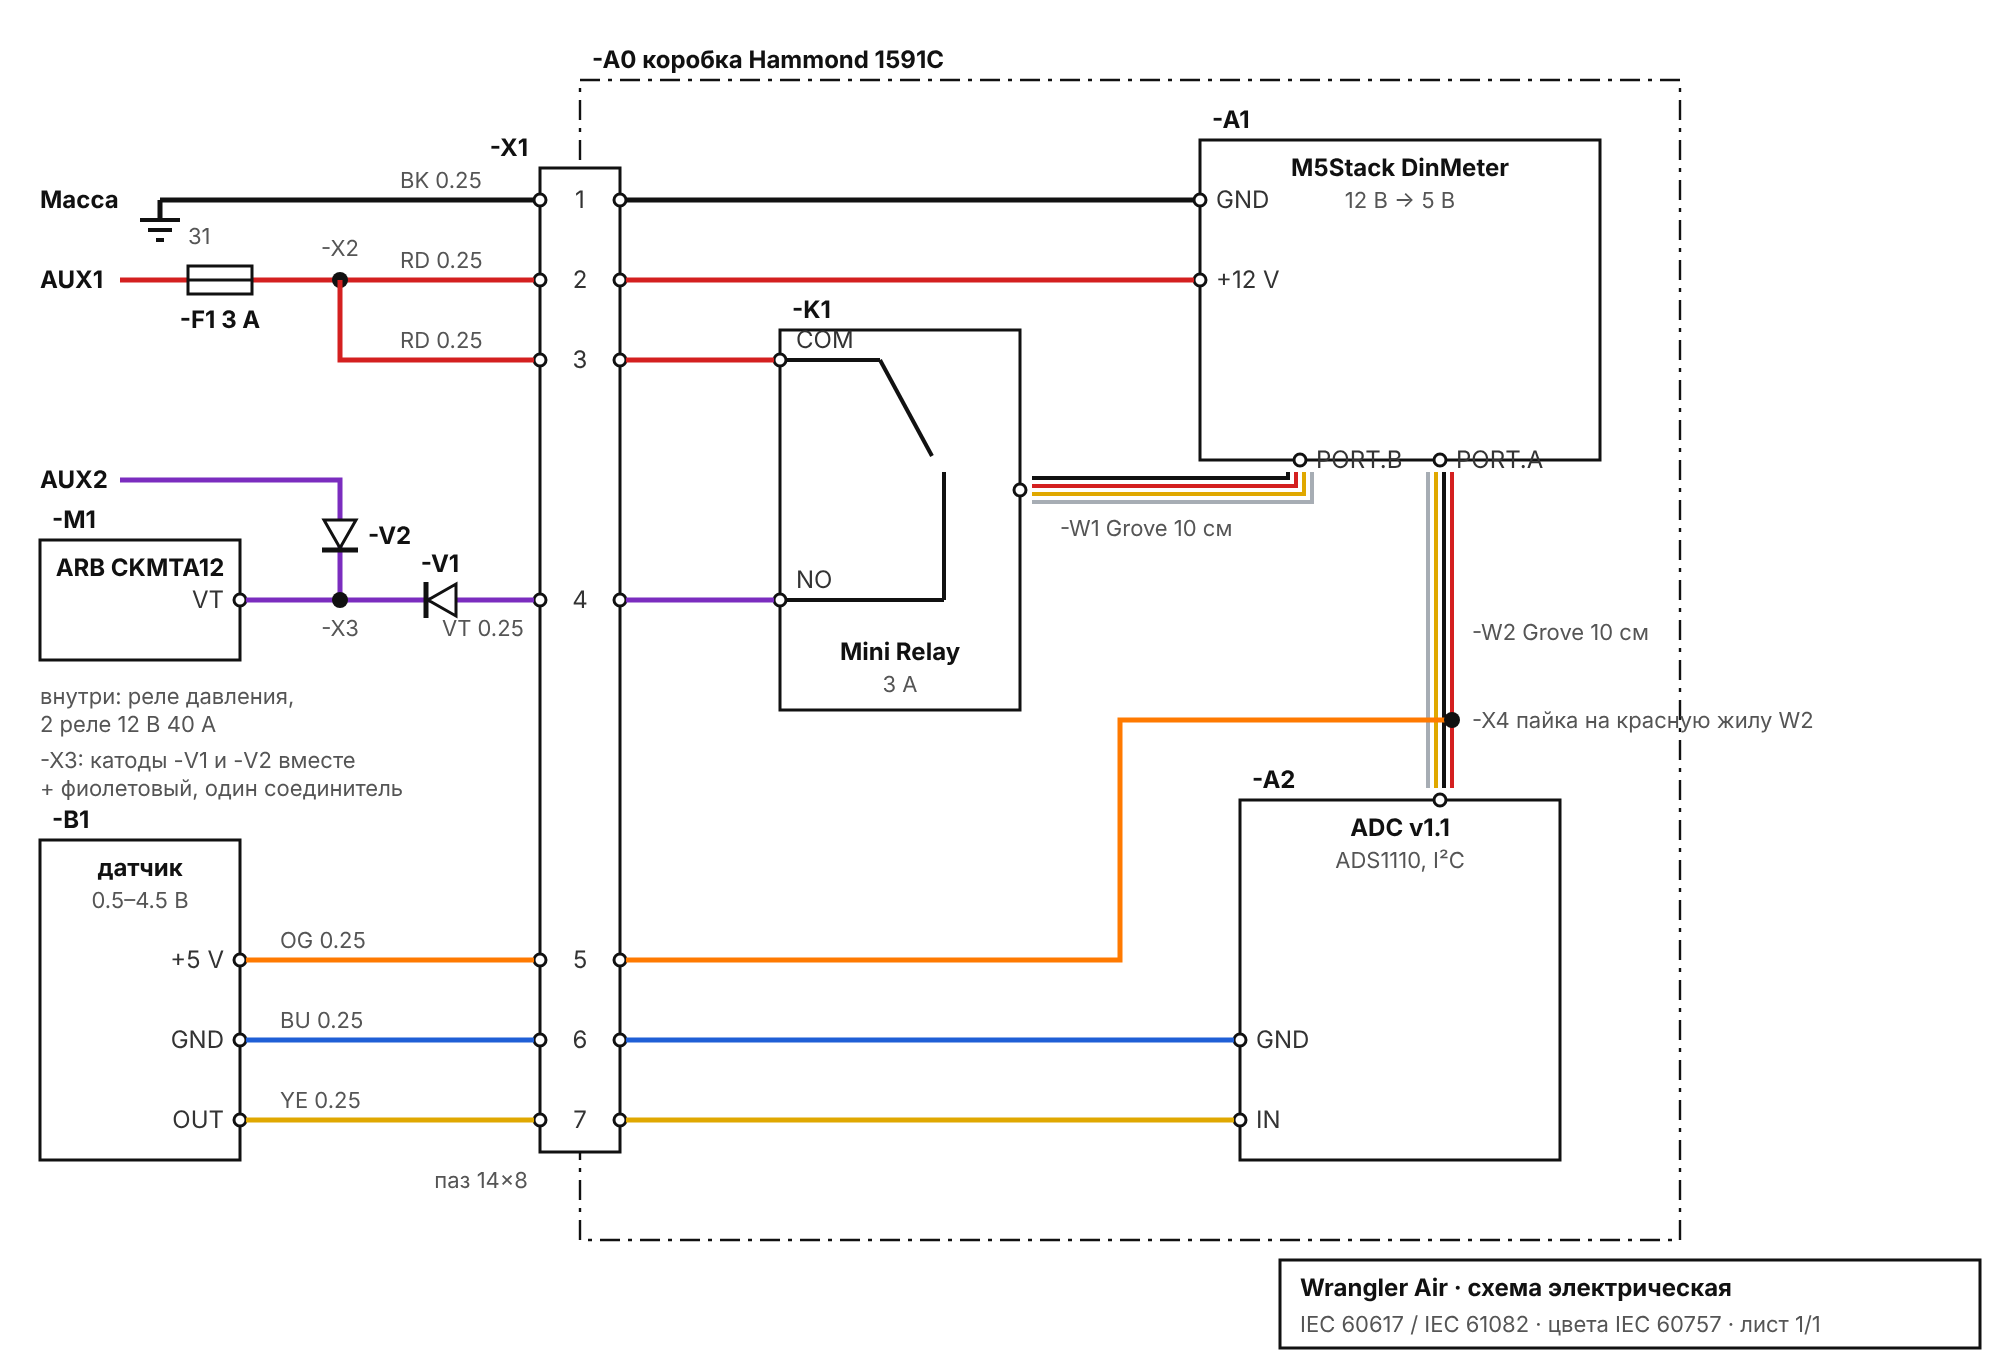
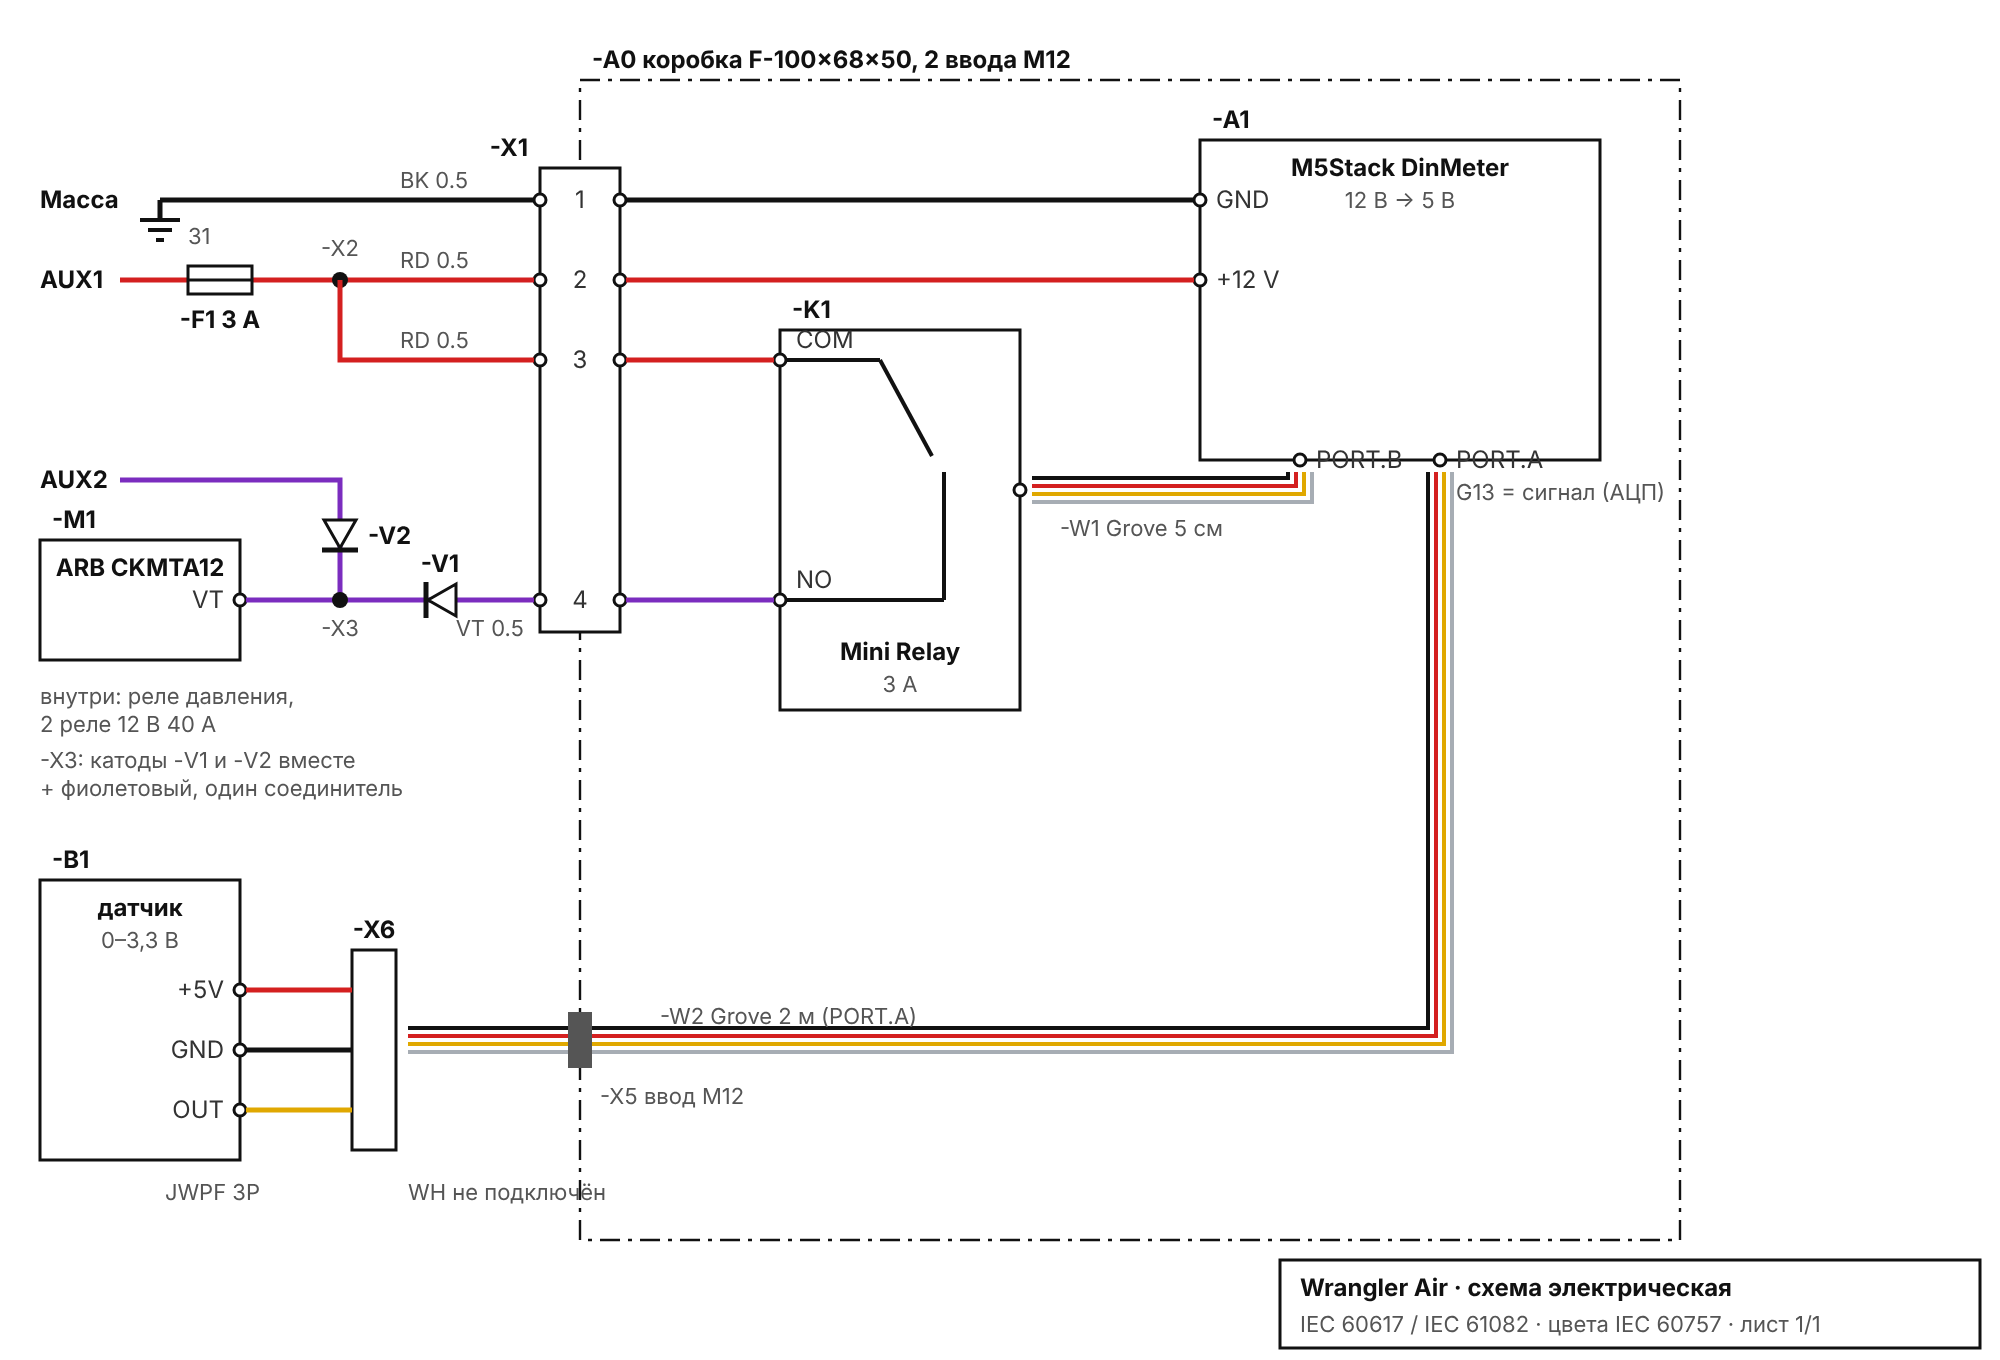
Schematic: sensor 0-3.3 V straight on a 2 m Grove cable from PORT.A (G13), no ADC, no divider; BOM and decisions
Claude-Session: https://claude.ai/code/session_018z5LvCZ9NFya6WZW91qW8w

diff --git a/hardware/enclosure/hammond_1591c/power_svg.py b/hardware/enclosure/hammond_1591c/power_svg.py
@@ -295,46 +295,53 @@ def power_svg_iec():
             o.append(f'<line x1="{x-6}" y1="{y+6}" x2="{x+6}" y2="{y-6}" stroke="#111" stroke-width="1.5"/>')
             lab(x, y - 9, str(n), "c")
 
-    # enclosure and terminal strip -X1 (the 14 x 8 mm slot: every car wire passes here)
+    # enclosure; -X1 = the car wires at the two M12 cable glands, -X5 = the sensor Grove cable through the right gland
     o.append('<rect x="290" y="40" width="550" height="580" class="box"/>')
-    lab(296, 34, "-A0  коробка Hammond 1591C", "d", "start")
-    T = {1: 100, 2: 140, 3: 180, 4: 300, 5: 480, 6: 520, 7: 560}
-    o.append(f'<rect x="270" y="{T[1]-16}" width="40" height="{T[7]-T[1]+32}" class="b"/>')
+    lab(296, 34, "-A0  коробка F-100×68×50, 2 ввода M12", "d", "start")
+    T = {1: 100, 2: 140, 3: 180, 4: 300}
+    o.append(f'<rect x="270" y="{T[1]-16}" width="40" height="{T[4]-T[1]+32}" class="b"/>')
     lab(264, T[1] - 22, "-X1", "d", "end")
-    lab(264, T[7] + 34, "паз 14×8", "c", "end")
     for k, y in T.items():
         o.append(f'<circle cx="270" cy="{y}" r="3" class="t"/><circle cx="310" cy="{y}" r="3" class="t"/>')
         lab(290, y + 4, str(k), "n")
 
-    # outside: supply, ground, compressor, sensor
-    # -X1:1 ground, -X1:2 +12 V to the DinMeter, -X1:3 +12 V to the relay COM
+    # outside: supply, ground, compressor
     lab(20, T[1] + 4, "Масса", "d", "start"); L((80, T[1]), (267, T[1]), c="BK")
     L((80, T[1]), (80, T[1] + 10), c="BK"); ground(80, T[1] + 10); lab(94, T[1] + 22, "31", "c", "start")
-    lab(200, T[1] - 6, "BK 0.25", "c", "start")
+    lab(200, T[1] - 6, "BK 0.5", "c", "start")
     lab(20, T[2] + 4, "AUX1", "d", "start"); L((60, T[2]), (267, T[2]), c="RD")
     fuse_h(110, T[2], "", ""); lab(110, T[2] + 24, "-F1 3 A", "d")
     dot(170, T[2]); L((170, T[2]), (170, T[3]), (267, T[3]), c="RD")
     lab(170, T[2] - 12, "-X2", "c")
-    lab(200, T[2] - 6, "RD 0.25", "c", "start"); lab(200, T[3] - 6, "RD 0.25", "c", "start")
+    lab(200, T[2] - 6, "RD 0.5", "c", "start"); lab(200, T[3] - 6, "RD 0.5", "c", "start")
     lab(20, 244, "AUX2", "d", "start"); L((60, 240), (170, 240), (170, T[4]), c="VT")
     diode_v(170, 268, "-V2")
     comp(20, 270, 100, 60, "-M1", "ARB CKMTA12", "")
     pinl(120, T[4], "VT", "r")
     L((170, T[4]), (267, T[4]), c="VT"); L((123, T[4]), (170, T[4]), c="VT"); dot(170, T[4])
     diode_h(220, T[4], "-V1")
-    lab(170, T[4] + 18, "-X3", "c"); lab(20, 384, "-X3: катоды -V1 и -V2 вместе", "c", "start"); lab(20, 398, "+ фиолетовый, один соединитель", "c", "start"); lab(262, T[4] + 18, "VT 0.25", "c", "end")
+    lab(170, T[4] + 18, "-X3", "c"); lab(20, 384, "-X3: катоды -V1 и -V2 вместе", "c", "start"); lab(20, 398, "+ фиолетовый, один соединитель", "c", "start"); lab(262, T[4] + 18, "VT 0.5", "c", "end")
     lab(20, 352, "внутри: реле давления,", "c", "start"); lab(20, 366, "2 реле 12 В 40 А", "c", "start")
 
-    comp(20, 420, 100, 160, "-B1", "датчик", "0.5–4.5 В")
-    for k, t, c in ((5, "+5 V", "OG"), (6, "GND", "BU"), (7, "OUT", "YE")):
-        pinl(120, T[k], t, "r")
-        L((123, T[k]), (267, T[k]), c=c)
-    lab(140, T[5] - 6, "OG 0.25", "c", "start"); lab(140, T[6] - 6, "BU 0.25", "c", "start"); lab(140, T[7] - 6, "YE 0.25", "c", "start")
+    # sensor: straight on a 2 m Grove cable from PORT.A, connector -X6 at the sensor, no ADC, no divider
+    S = {"+5V": 495, "GND": 525, "OUT": 555}
+    comp(20, 440, 100, 140, "-B1", "датчик", "0–3,3 В")
+    for t, y in S.items():
+        pinl(120, y, t, "r")
+    o.append('<rect x="176" y="475" width="22" height="100" class="b"/>'); lab(187, 469, "-X6", "d")
+    lab(187, 590, "", "c")
+    lab(130, 600, "JWPF 3P", "c", "end")
+    L((123, S["+5V"]), (176, S["+5V"]), c="RD"); L((123, S["GND"]), (176, S["GND"]), c="BK"); L((123, S["OUT"]), (176, S["OUT"]), c="YE")
+    grove4([(720, 236), (720, 520), (204, 520)])
+    o.append('<rect x="284" y="506" width="12" height="28" fill="#555"/>'); lab(300, 552, "-X5 ввод M12", "c", "start")
+    lab(330, 512, "-W2 Grove 2 м (PORT.A)", "c", "start")
+    lab(204, 600, "WH не подключён", "c", "start")
 
     # inside
     comp(600, 70, 200, 160, "-A1", "M5Stack DinMeter", "12 В → 5 В")
     pinl(600, T[1], "GND"); pinl(600, T[2], "+12 V")
     pinl(650, 230, "PORT.B"); pinl(720, 230, "PORT.A")
+    lab(728, 250, "G13 = сигнал (АЦП)", "c", "start")
     L((313, T[1]), (597, T[1]), c="BK"); L((313, T[2]), (597, T[2]), c="RD")
     o.append('<rect x="390" y="165" width="120" height="190" class="b"/>')
     lab(396, 159, "-K1", "d", "start"); lab(450, 330, "Mini Relay", "d"); lab(450, 346, "3 A", "c")
@@ -345,14 +352,7 @@ def power_svg_iec():
     lab(398, T[3] - 6, "COM", "n", "start"); lab(398, T[4] - 6, "NO", "n", "start")
     L((313, T[3]), (387, T[3]), c="RD"); L((313, T[4]), (387, T[4]), c="VT")
     o.append('<circle cx="510" cy="245" r="3" class="t"/>')
-    grove4([(650, 236), (650, 245), (516, 245)]); lab(530, 268, "-W1 Grove 10 см", "c", "start")
-    comp(620, 400, 160, 180, "-A2", "ADC v1.1", "ADS1110, I²C")
-    o.append('<circle cx="720" cy="400" r="3" class="t"/>')
-    grove4([(720, 236), (720, 394)], ("WH", "YE", "BK", "RD")); lab(736, 320, "-W2 Grove 10 см", "c", "start")
-    pinl(620, T[6], "GND"); pinl(620, T[7], "IN")
-    L((313, T[6]), (617, T[6]), c="BU"); L((313, T[7]), (617, T[7]), c="YE")
-    L((313, T[5]), (560, T[5]), (560, 360), (726, 360), c="OG"); dot(726, 360)
-    lab(736, 364, "-X4 пайка на красную жилу W2", "c", "start")
+    grove4([(650, 236), (650, 245), (516, 245)]); lab(530, 268, "-W1 Grove 5 см", "c", "start")
 
     # title block
     o.append('<rect x="640" y="630" width="350" height="44" class="b"/>')

diff --git a/docs/decisions.md b/docs/decisions.md
@@ -17,10 +17,12 @@
   OG +5 V датчика, BU масса датчика, YE сигнал.
 - **Жгуты:** два жгута в термоусадке 2:1 6,4 мм без клея (вход 12 V + масса; датчик + управление ARB).
   На выходе из паза и на концах кольца 3:1 с клеем.
-- **Grove:** 5 см к реле, 10 см к ADC.
-- **Датчик:** 5 V, 0,5-4,5 V, 0-1,2 MPa, резьба G1/8 (BSPP) на бондовой шайбе, в свободный порт 1/8 BSPP манифолда ARB 171503.
-  Не 100 psi: при закрытой линии и обходе через AUX2 ARB качает до 10,3 bar. Разъём 3-pin JWPF у датчика.
-  Порт 1/4 NPT манифолда остаётся под тройник на колёса.
+- **Grove:** 5 см к реле (PORT.B), 2 м к датчику (PORT.A). ADC v1.1 и Grove 10 см в запасе.
+- **Датчик (основной вариант):** 5 V питание, выход **0-3,3 V**, 0-1,2 MPa, G1/8 на бондовой шайбе в порт 1/8 BSPP манифолда ARB 171503.
+  Подключение без ADC и без делителя: кабель Grove 2 м прямо из PORT.A, чёрный GND, красный +5 V, жёлтый G13 (вход АЦП), белый не подключён.
+  У датчика разъём JWPF 3P (-X6). Обрыв провода ловит прошивка: компрессор работает N секунд, а давление не растёт → стоп и ошибка;
+  резкий провал давления до нуля → стоп. Куплен и вариант 0,5-4,5 V: он идёт через ADC v1.1, если АЦП ESP32 окажется слишком шумным.
+  G13 на ESP32-S3 это ADC2: не читается, пока включён Wi-Fi (только режим обновления OTA), в работе Wi-Fi выключен.
 - **Диоды:** берём оба варианта, 1N4007 в соединителе с припоем и диоды в корпусе мини-реле в колодках.
 
 ## Ранее

diff --git a/docs/bom.md b/docs/bom.md
@@ -53,12 +53,13 @@ Grove: реле на 5 см, ADC на 10 см (расстояние до PORT.A 
 |---|---|---|
 | 3M VHB | 10.80 | [Galaxus](https://www.galaxus.ch/en/search?q=3M%20VHB) |
 
-## Второй заказ (в корзине AliExpress 18.11.2026, не оформлен, ~CHF 33.69 с бесплатной доставкой)
+## Второй заказ (в корзине AliExpress 18.11.2026, не оформлен, ~CHF 59 + доставка Grove от M5Stack CHF 4.44)
 
 | Позиция | Кол-во | Вариант | Цена | Ссылка |
 |---|---|---|---|---|
-| Датчик давления 5 V, **G1/8 (BSPP)**, керамика, кабель | 1 | 0-1.2Mpa, output 0.5-4.5V | 15.32 | [item](https://www.aliexpress.com/item/1005004559608411.html) |
-| Разъём 3-pin JWPF влагозащищённый, пара с проводами 15 см 22AWG | 1 | 1Pairs, 15CM, 3P | 1.71 | [item](https://www.aliexpress.com/item/1005013090546413.html) |
+| Датчик давления 5 V, **G1/8 (BSPP)**, керамика, кабель | 1+1 | 0-1.2Mpa, output 0-3.3V (основной) и output 0.5-4.5V (запасной, через ADC) | 15.28 + 15.32 | [item](https://www.aliexpress.com/item/1005004559608411.html) |
+| Grove кабель 2 м, PORT.A → датчик | 1 | 200cm-1pcs | 2.56 | [item](https://www.aliexpress.com/item/1005003297438723.html) |
+| Разъём 3-pin JWPF влагозащищённый, пара с проводами 15 см 22AWG | 5 пар | 5Pairs, 15CM, 3P | 4.73 | [item](https://www.aliexpress.com/item/1005013090546413.html) |
 | Шайба бондовая (Dowty) 1/8 BSP | 20 шт | 1/8 inch BSP | 2.63 | [item](https://www.aliexpress.com/item/1005010400290817.html) |
 | Клещи для гильз HSC8 6-6A с набором гильз | 1 | 400PCs | 14.04 | [item](https://www.aliexpress.com/item/1005008064207855.html) |
 | Кольцевые наконечники с припоем и термоусадкой, M5-M10 | 1 | 40PCS Kit | 5.19 | [item](https://www.aliexpress.com/item/1005007516527222.html) |
